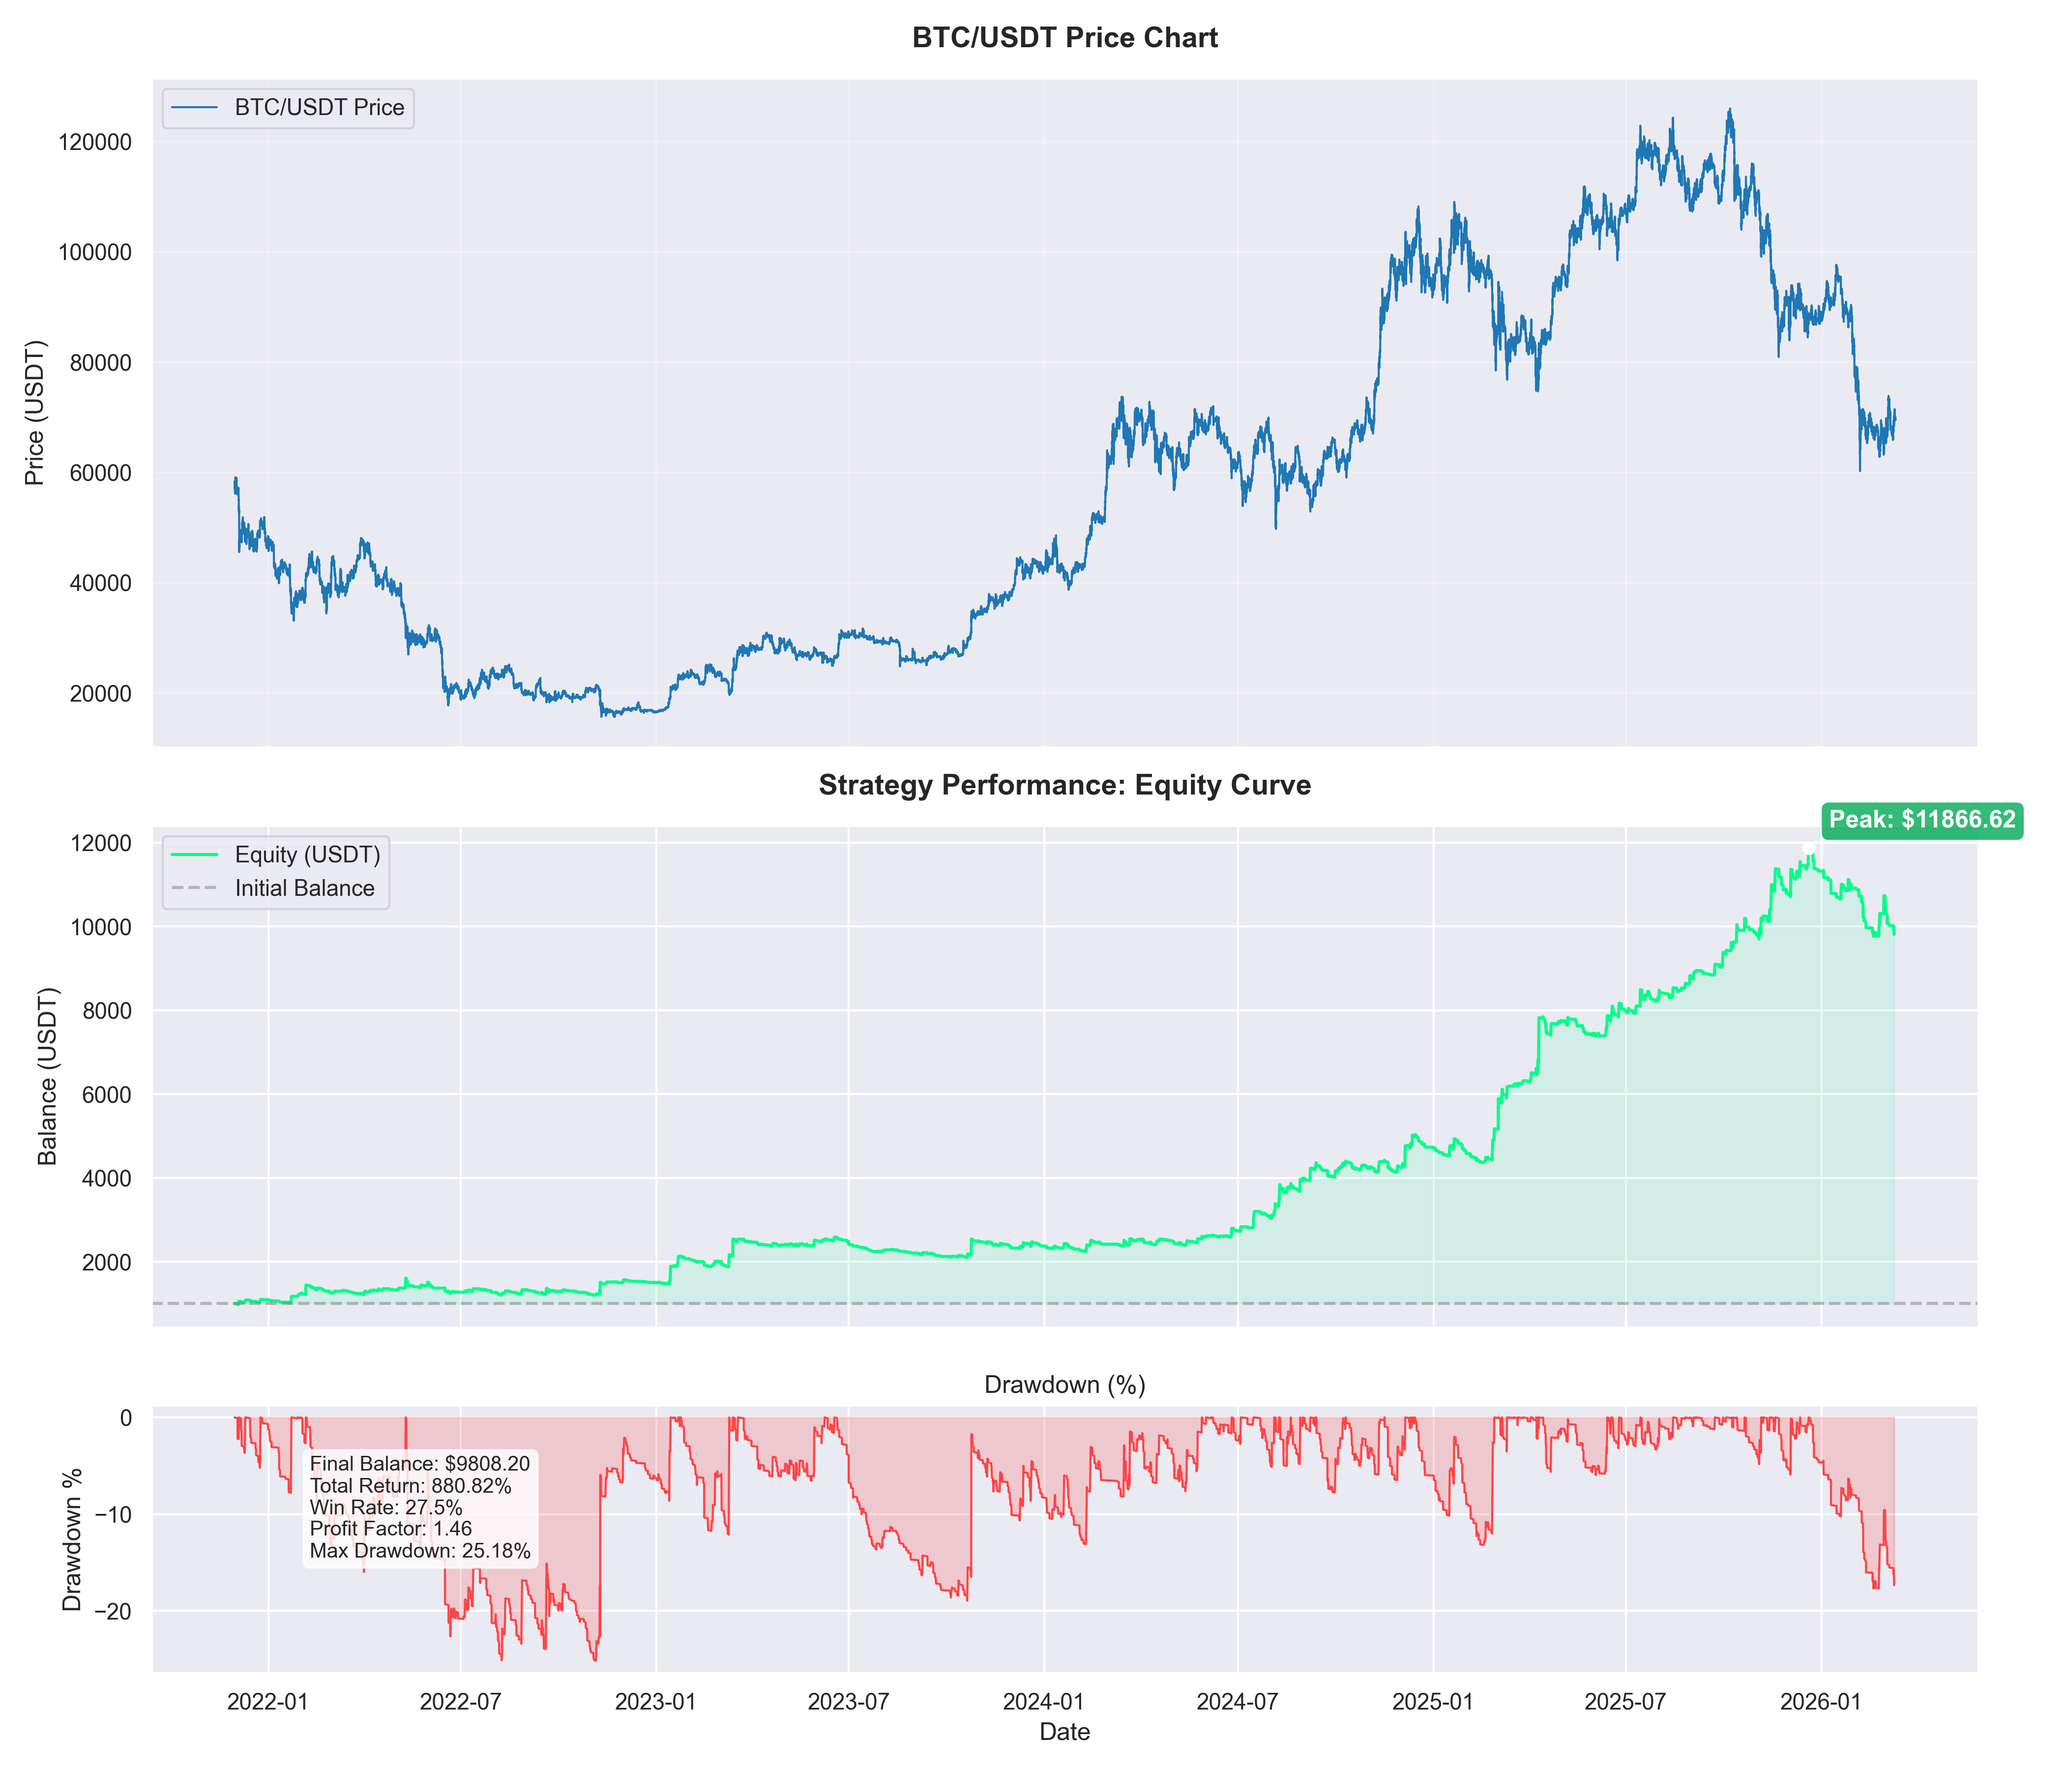
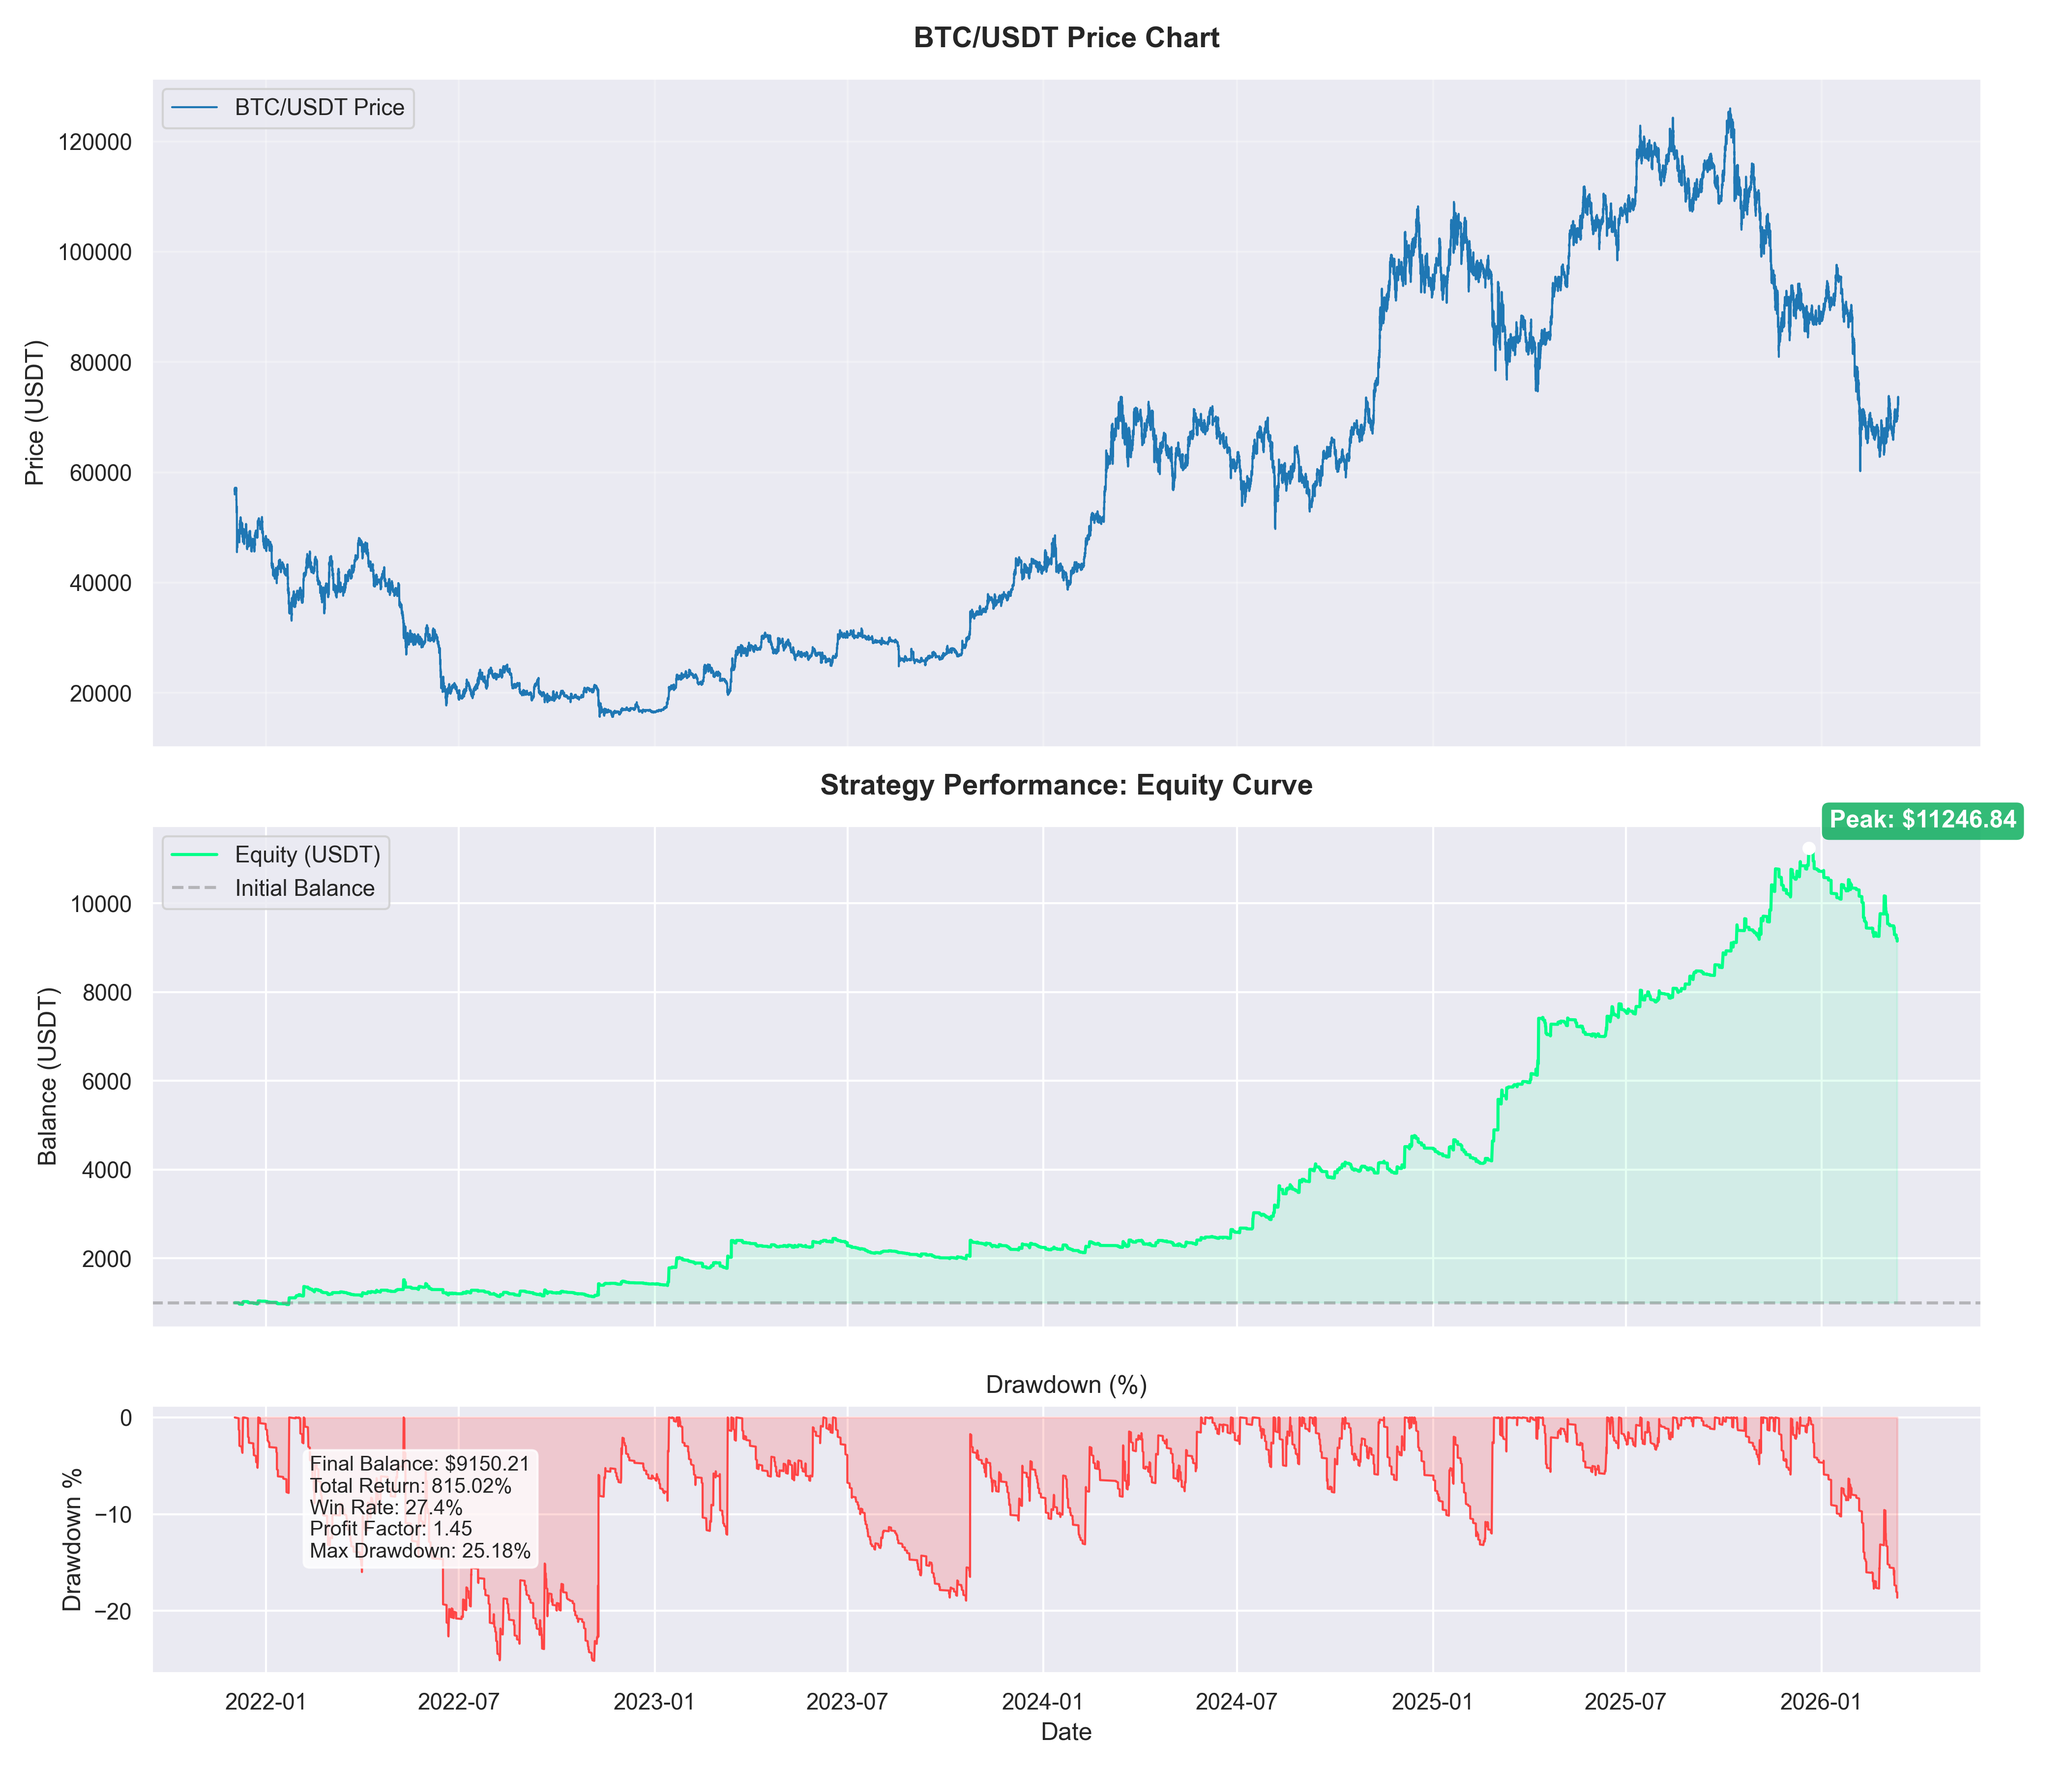
feat: Filter backtest historical data to Binance Futures launch date to prevent API errors and add `performance_summary.png`.

diff --git a/backtest.py b/backtest.py
@@ -419,7 +419,16 @@ def get_backtest_data(limit=LIMIT):
             print(f"Estimated time: ~{int(num_batches/(WORKERS/SLEEP))} seconds (Safety Mode needed for large data)")
             
             # Generate end times
-            end_times = [now_ms - (i * batch_size * ms_interval) for i in range(num_batches)]
+            # Binance Futures launched ~Sep 2019. Filter out any end_times before that
+            # to avoid API error -1023 "Start time is greater than end time."
+            BINANCE_FUTURES_LAUNCH_MS = 1569888000000  # 2019-10-01 00:00:00 UTC
+            end_times = [
+                now_ms - (i * batch_size * ms_interval)
+                for i in range(num_batches)
+                if (now_ms - (i * batch_size * ms_interval)) > BINANCE_FUTURES_LAUNCH_MS
+            ]
+            if len(end_times) < num_batches:
+                print(f"ℹ  Trimmed to {len(end_times)} batches (history limit reached before 2019-10-01).")
 
             def fetch_single_batch(end_ts):
                 # Rate limit: Sleep 1.0s per thread per request
